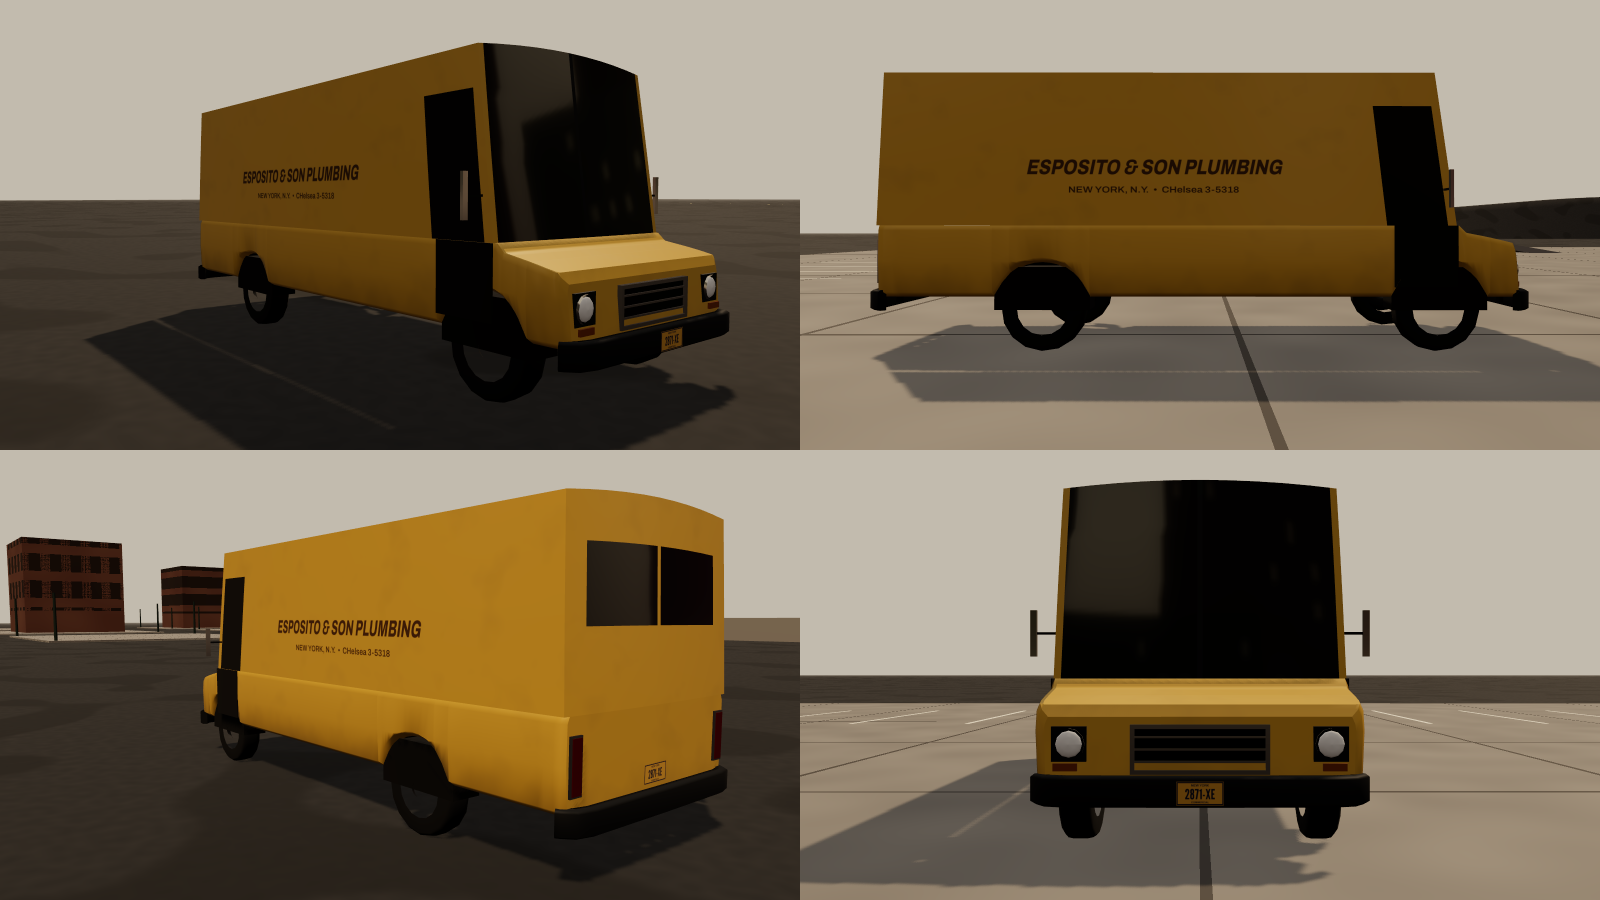
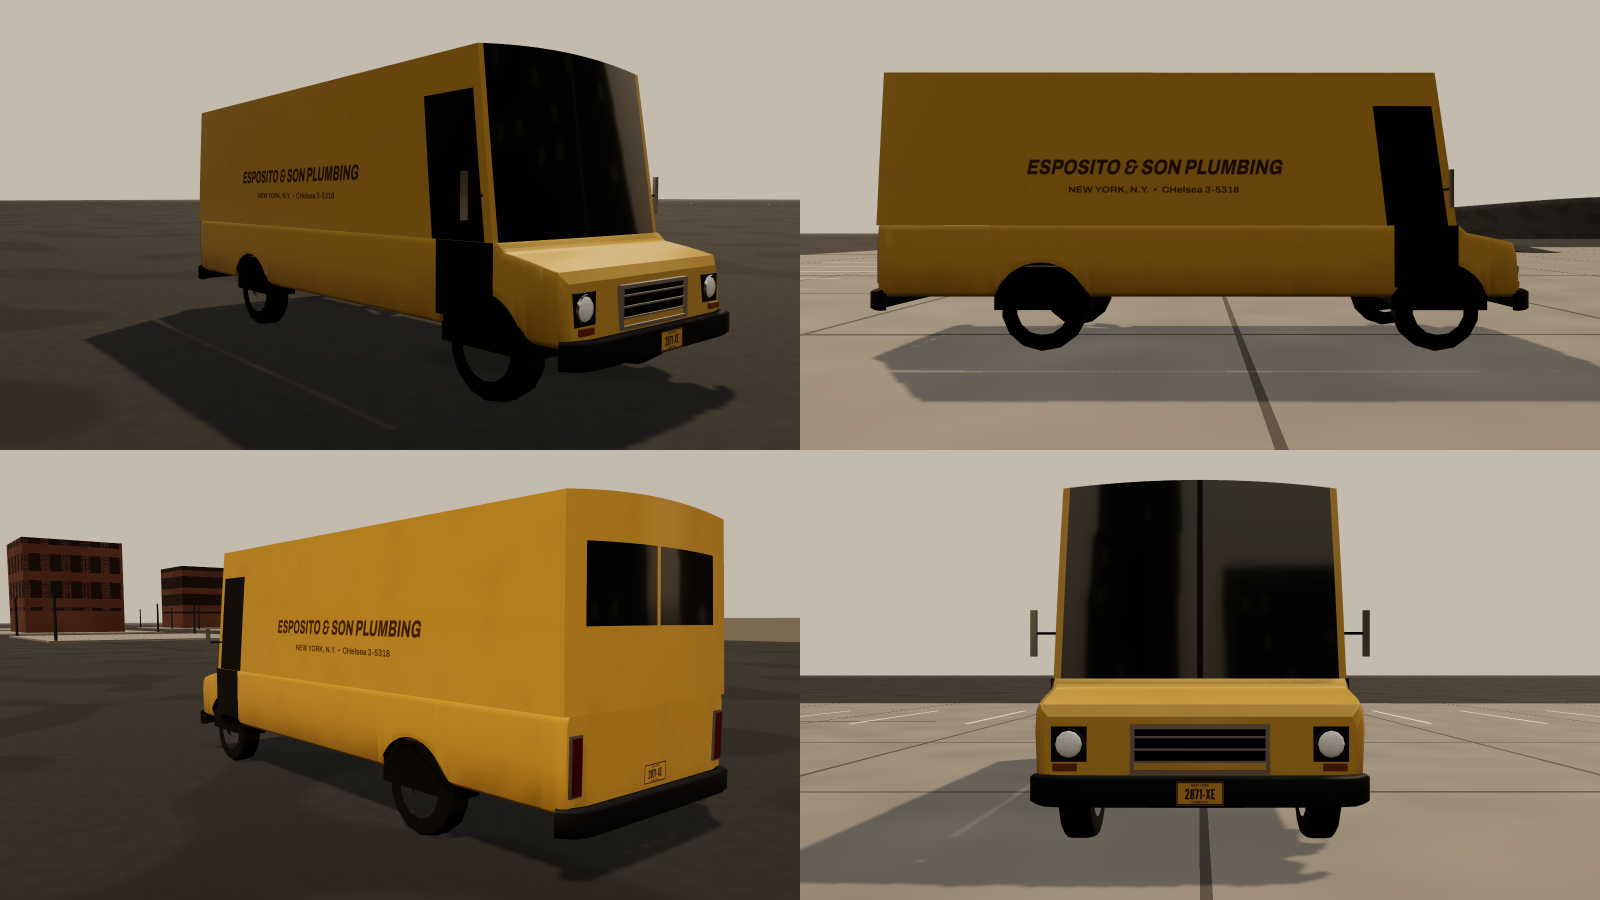
Vehicles: lineup re-framed like each reference photo; fresh turntables; look-pass notes
Claude-Session: https://claude.ai/code/session_01H4ZSJ51q9zJhE3T3n4Hw3M

diff --git a/tools/shots/vehicles.ts b/tools/shots/vehicles.ts
@@ -100,17 +100,25 @@ async function main() {
       await open(page, 'mode=lineup&quality=high');
       await page.evaluate(() => window.__VEH.simulate(1.5));
       const shots: Buffer[] = [];
-      const cams: [number, number, number, number, number, number, number][] = [
-        [0.6, 1.45, -82, 3.6, 0.9, -55, 38], // down the curb lane, eye level, longish lens
-        [-1.2, 1.6, -38, 3.8, 0.9, -24, 40], // middle of the line (trucks and bus)
-        [-2.5, 7, -30, 3.4, 0.4, -60, 48], // from a second-floor window
+      // framed like the reference photos: camera relative to a specific parked car (local frame)
+      const framings: [string, number[]][] = [
+        ['tiverton', [-2.7, 1.1, -3.8, 0.4, 0.7, 1.4, 52]], // 549851: low rear three-quarter, driver side, close
+        ['bancroft_cab', [-1.6, 1.25, -5.2, 0.4, 0.7, 0.6, 48]], // 554331: cab front three-quarter from the lane
+        ['ct40', [-2.2, 1.55, -9.5, 0.2, 1.6, -3.5, 50]], // 549921: bus front three-quarter at the stop
       ];
-      for (const c of cams) { await page.evaluate((c: number[]) => window.__VEH.setCamera(...c), c); shots.push(await snap(page)); }
+      for (const [id, c] of framings) {
+        await page.evaluate(([id, c]: [string, number[]]) => {
+          const V = window.__VEH; const v = V.parked.find((p: any) => p.modelId === id); const o = v.object;
+          const a = o.localToWorld(new o.position.constructor(c[0], c[1], c[2])), t = o.localToWorld(new o.position.constructor(c[3], c[4], c[5]));
+          V.setCamera(a.x, a.y, a.z, t.x, t.y, t.z, c[6]);
+        }, [id, c] as [string, number[]]);
+        shots.push(await snap(page));
+      }
       await sheet(page, shots, 3, 640, 360, 'lineup_street.png');
       // side by side with reference photos (public domain, references/catalog.json)
       const refs = ['documerica_549851.jpg', 'documerica_554331.jpg', 'documerica_549921.jpg'].map((f) => fs.readFileSync(path.join(ROOT, 'references/img', f)));
       await sheet(page, [shots[0], refs[0], shots[1], refs[1], shots[2], refs[2]], 2, 640, 420, 'lineup_vs_references.png',
-        ['render: lineup (eye level)', 'ref: DOCUMERICA 549851 (public domain)', 'render: lineup', 'ref: DOCUMERICA 554331 (taxis, Lexington Ave)', 'render: from above', 'ref: DOCUMERICA 549921 (bus)']);
+        ['render: Delacorte Tiverton, framed like 549851', 'ref: DOCUMERICA 549851 (public domain)', 'render: Bancroft cab, framed like 554331', 'ref: DOCUMERICA 554331 (taxis, Lexington Ave)', 'render: CT-40 bus, framed like 549921', 'ref: DOCUMERICA 549921 (bus)']);
       console.log('lineup');
     }
 

diff --git a/docs/VEHICLES_PROGRESS.md b/docs/VEHICLES_PROGRESS.md
@@ -4,6 +4,44 @@ This file is the source of truth for the vehicles workstream: read it first, upd
 Brief: `docs/briefs/VEHICLES_BRIEF.md`. Branch: `claude/youthful-newton-py223e`, based on
 `claude/tenderloin-74-engine-qi54lt`.
 
+## Session 3b: look pass against the references (oversight review of the lineup)
+**Fresh comparison:** `shots/vehicles/lineup_vs_references.png`. Each render is now framed like
+its photo: the Tiverton as in 549851, the Bancroft cab as in 554331, the CT-40 as in 549921.
+
+**Checked before changing anything:**
+- **Dimensions were already period-correct.** The Bancroft is 5.75 m overall, 2.0 m wide, with
+  a 1.62 m track and 1.39 m height, against 1973–74 full-size cars at roughly 5.6–5.8 m, 2.0 m
+  and 1.37–1.40 m. The "short and upright" read came mostly from wide-angle framing and from
+  missing brightwork. So the only proportion change is the sedan roof, 3 cm lower with a
+  slightly longer roof line.
+- **The PMREM street environment was already on in the test lot.** It was too low-contrast to
+  read in chrome, so it has been retuned.
+
+**Changed:**
+- **Brightwork:** chrome window surrounds and belt mouldings (black trim on police cars),
+  chrome wheel-lip mouldings, door shut lines, and door handles on every passenger car.
+- **Arches:** clean vertical cut-outs with no inward tuck, which removes the dark smudge over
+  the wheels.
+- **Materials:** glossier clearcoat (0.75, roughness 0.12), finer vinyl grain, and an
+  environment with a bright sky band and a mid-tone street, so hubcaps and bumpers read as
+  chrome.
+- **Budget:** LOD0 stays within the brief at 6.5–8.0k triangles per car. The trim tubes were
+  coarsened to fit.
+
+**Still short of the photos (honest):**
+- **No film grade or grain yet.** That's the engine post stack, and it's the biggest remaining
+  difference in mood. The references are warm and low-contrast; our renders are clean and grey.
+- **Shoulder highlights are weak.** The photographed cars show a strong reflected highlight
+  along the fender crease. Our body sides are close to flat, so the highlight is weak. Next:
+  a sharper upper character line with a slight tumblehome.
+- **Taxi front:** the photographed cabs have a lower, wider grille with a thin wrapping bumper.
+  Ours has a taller face with the lamps higher.
+- **Missing details:** no interiors or people, and the glass is opaque, so nobody visible
+  behind the windscreen as in 549851. Hood creases and the long hood centre crease seen on the
+  cab in 554331 are also missing.
+- **The test-lot set is bare** next to dense period streets. That's the city's job, not the
+  vehicles'.
+
 ## Session 3: the user's "Yes all of it" (2026-11-26)
 The user confirmed the scope relayed by the oversight session: condition and breakdowns, the
 damage API, theft, ownership, and the new roster. Everything below is built and measured, and the
